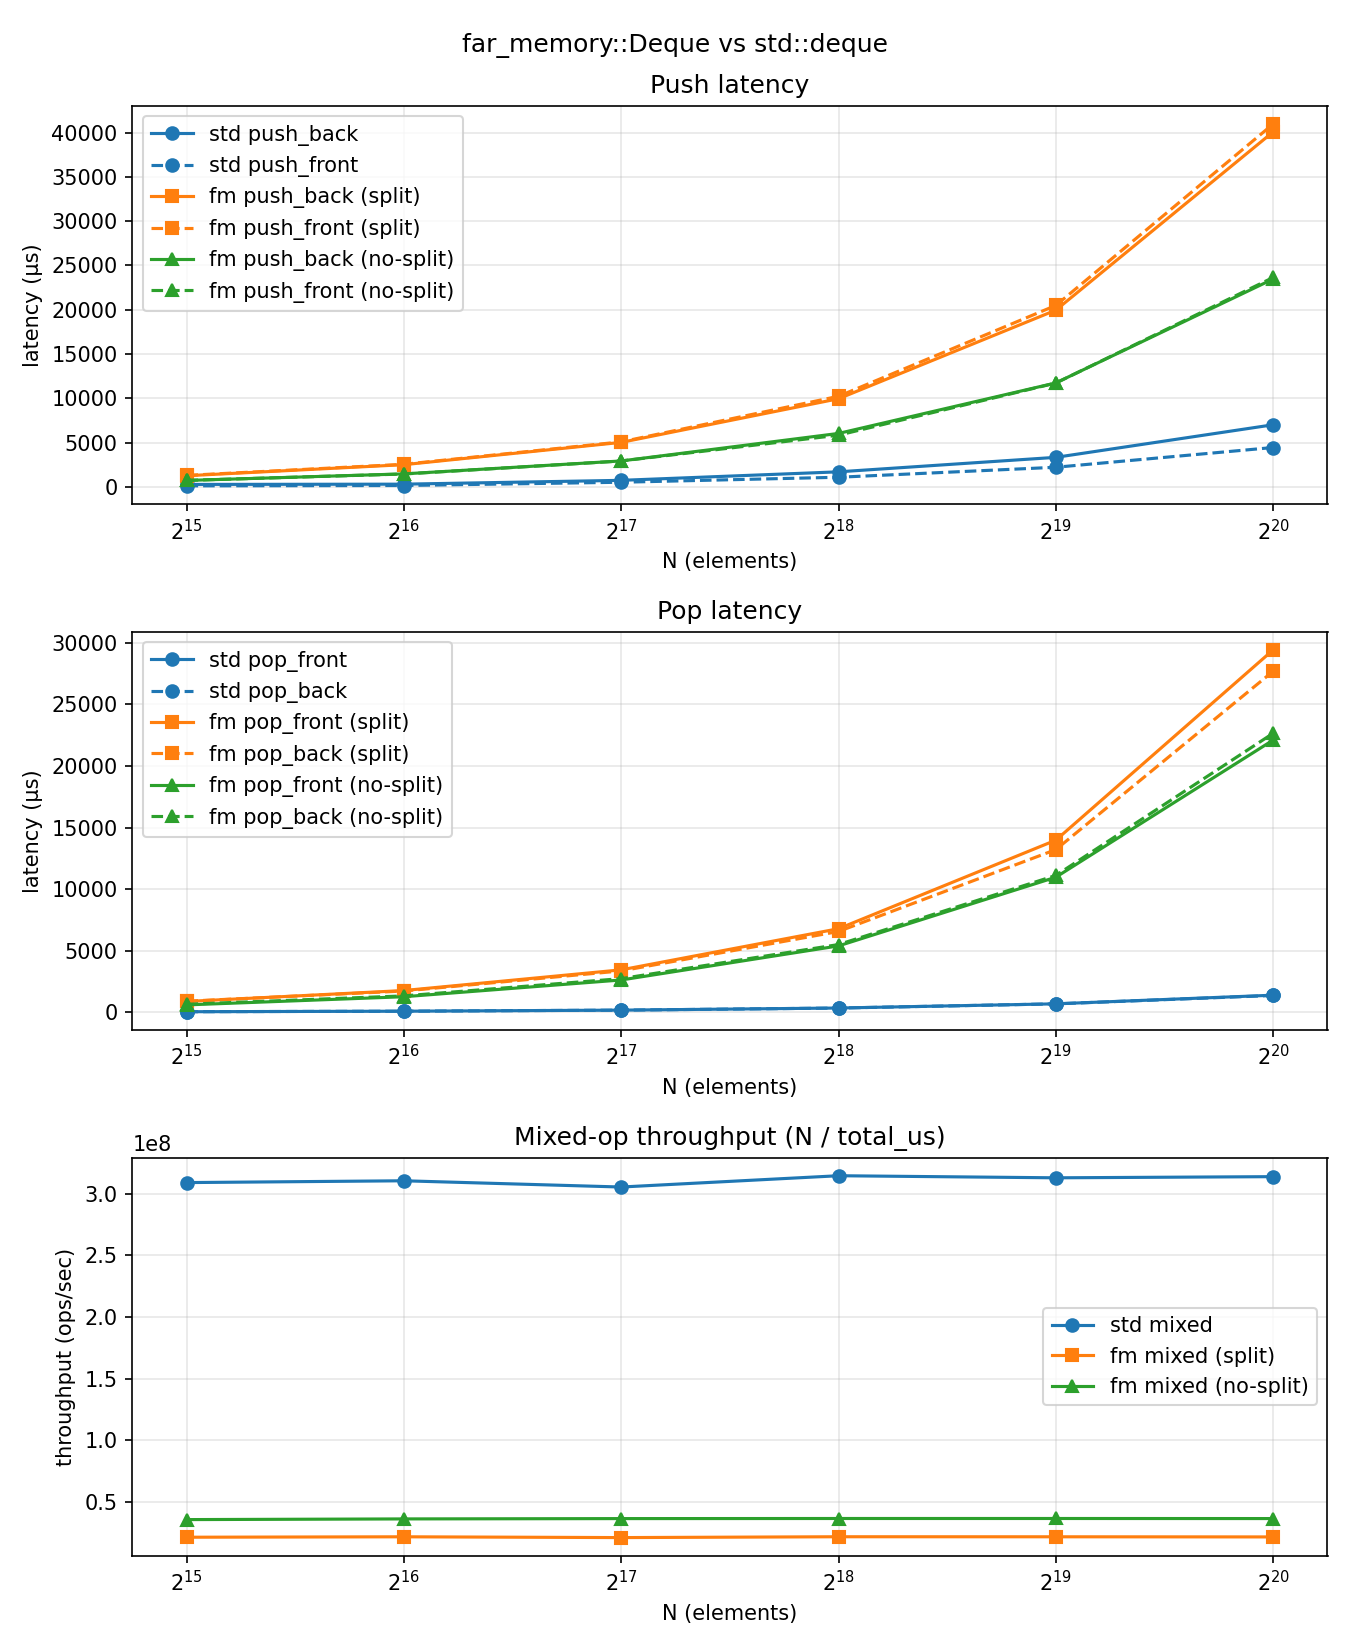
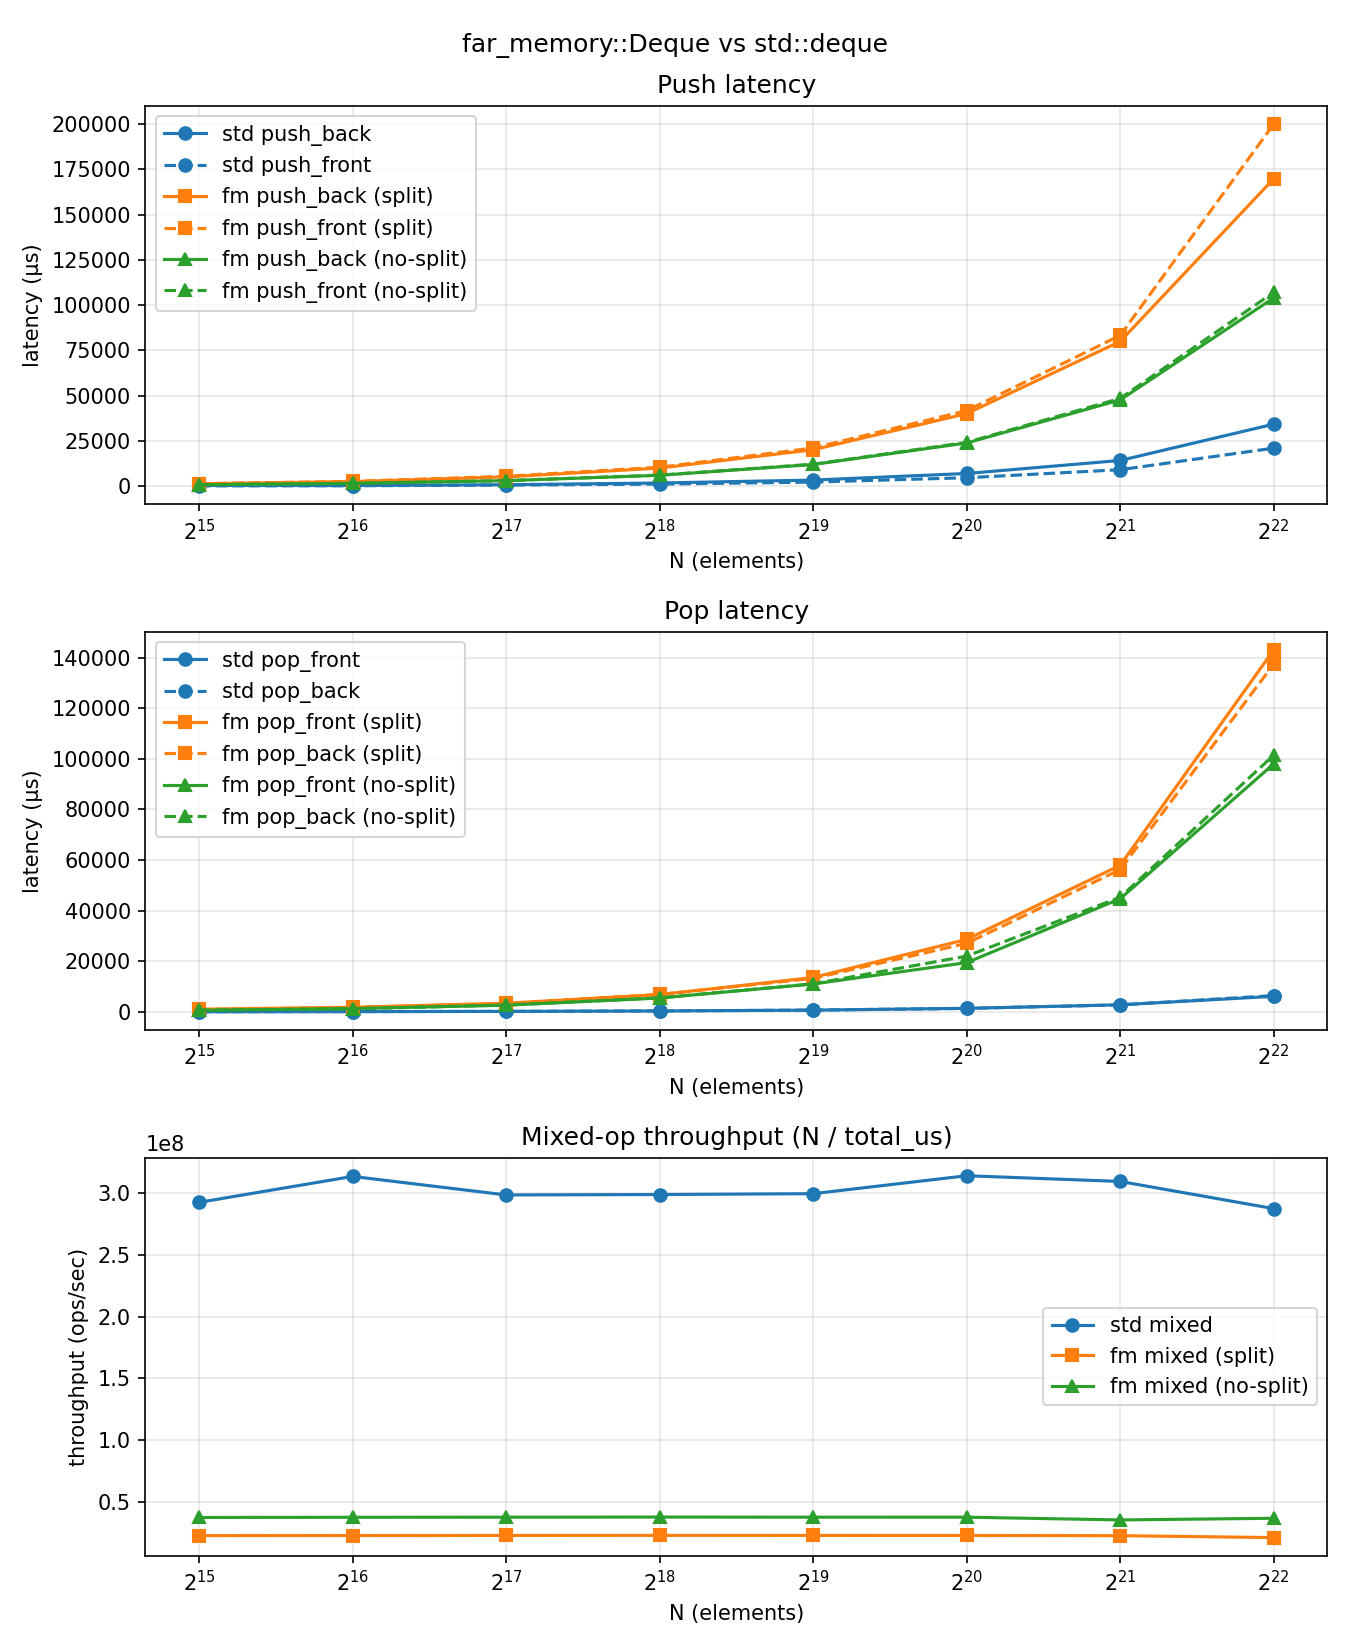
update

diff --git a/aifm/test/test_deque_perf.cpp b/aifm/test/test_deque_perf.cpp
@@ -23,7 +23,7 @@ constexpr uint32_t kNumGCThreads = 12;
 constexpr uint32_t kScopeResetInterval = 256;
 
 // Sizes chosen so each workload fits in far-memory with meaningful GC pressure.
-static const uint32_t kSizes[] = {1<<15, 1<<16, 1<<17, 1<<18, 1<<19, 1<<20};
+static const uint32_t kSizes[] = {1<<15, 1<<16, 1<<17, 1<<18, 1<<19, 1<<20, 1<<21, 1<<22};
 
 class DequePerfReport {
 public: